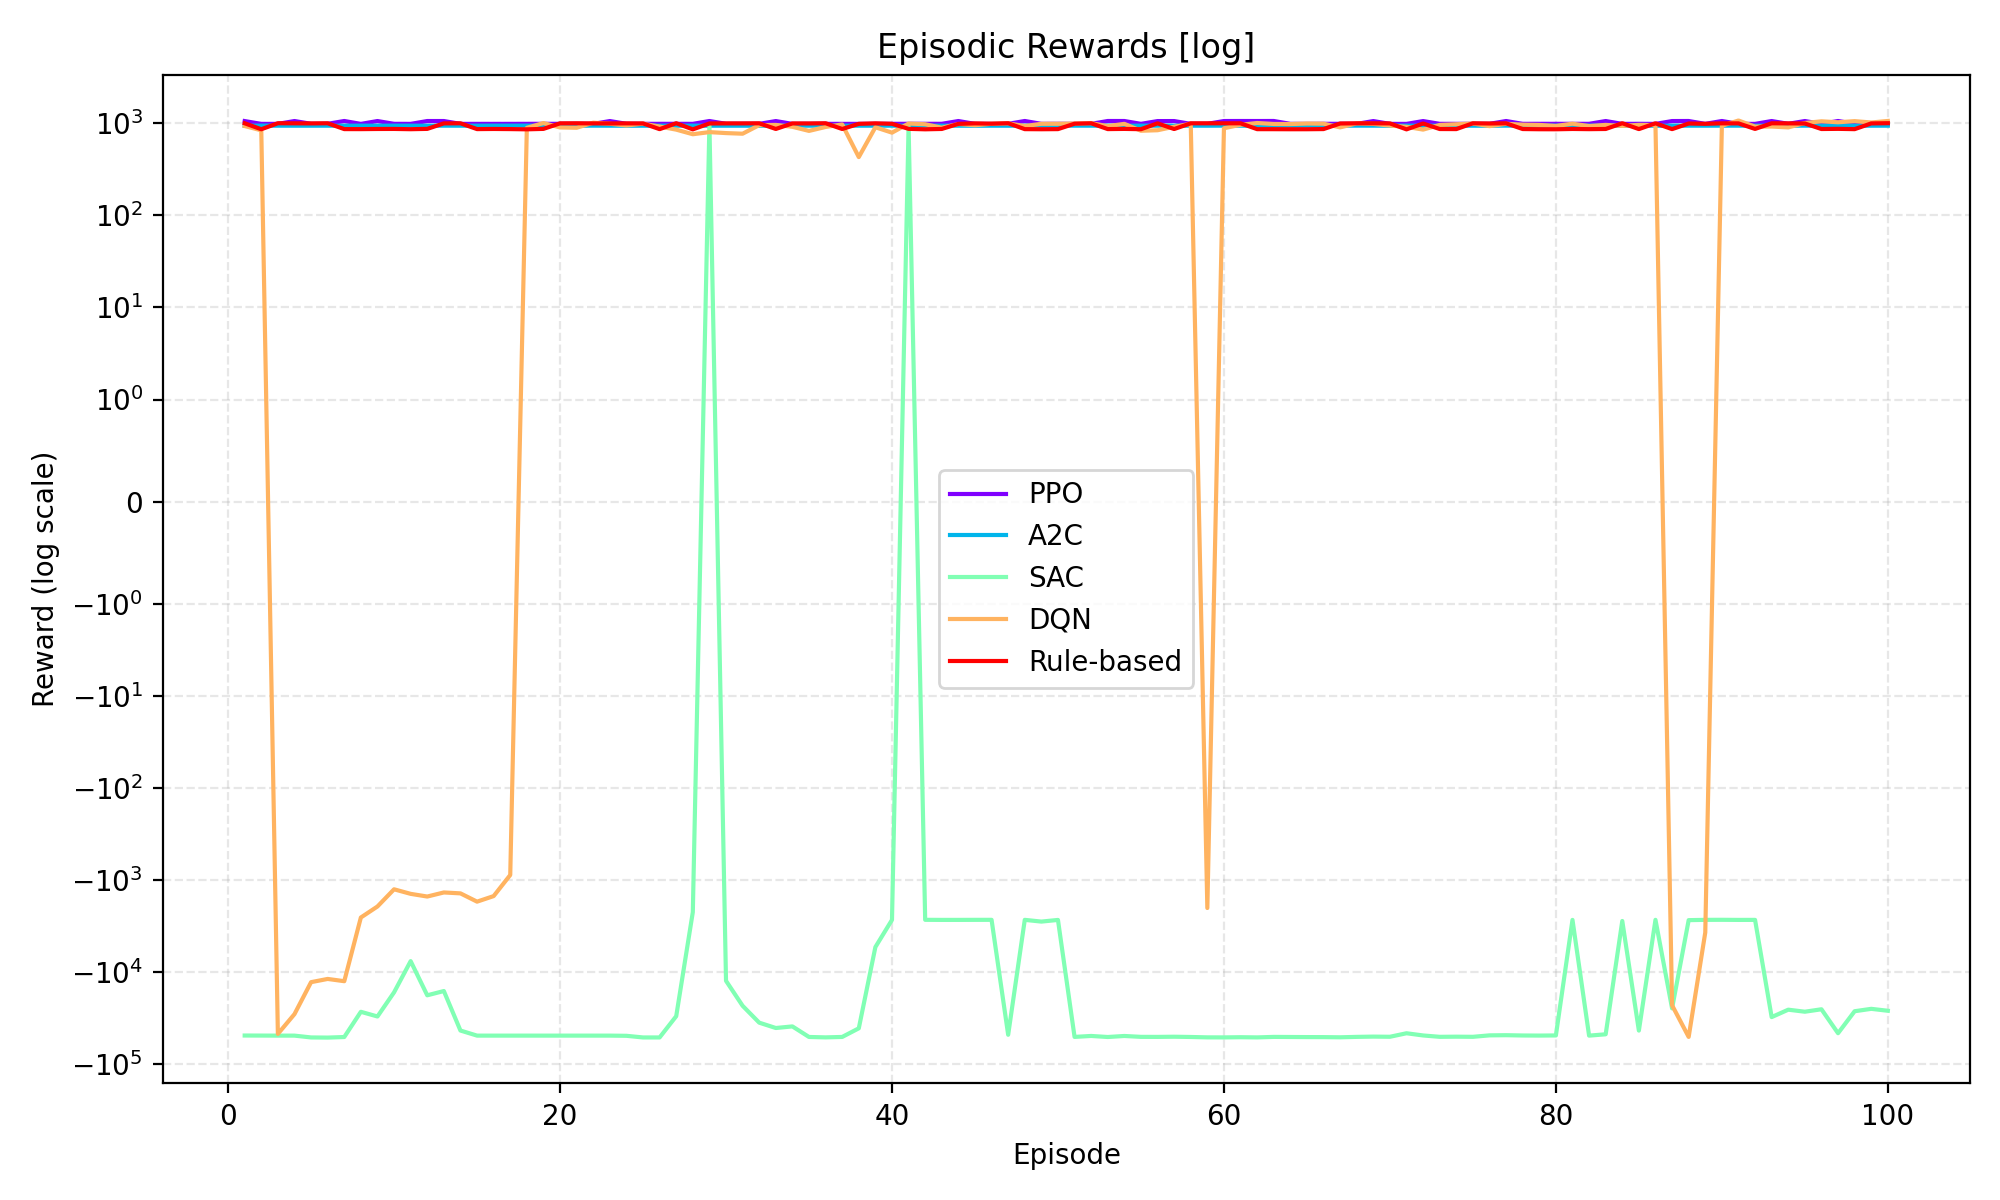
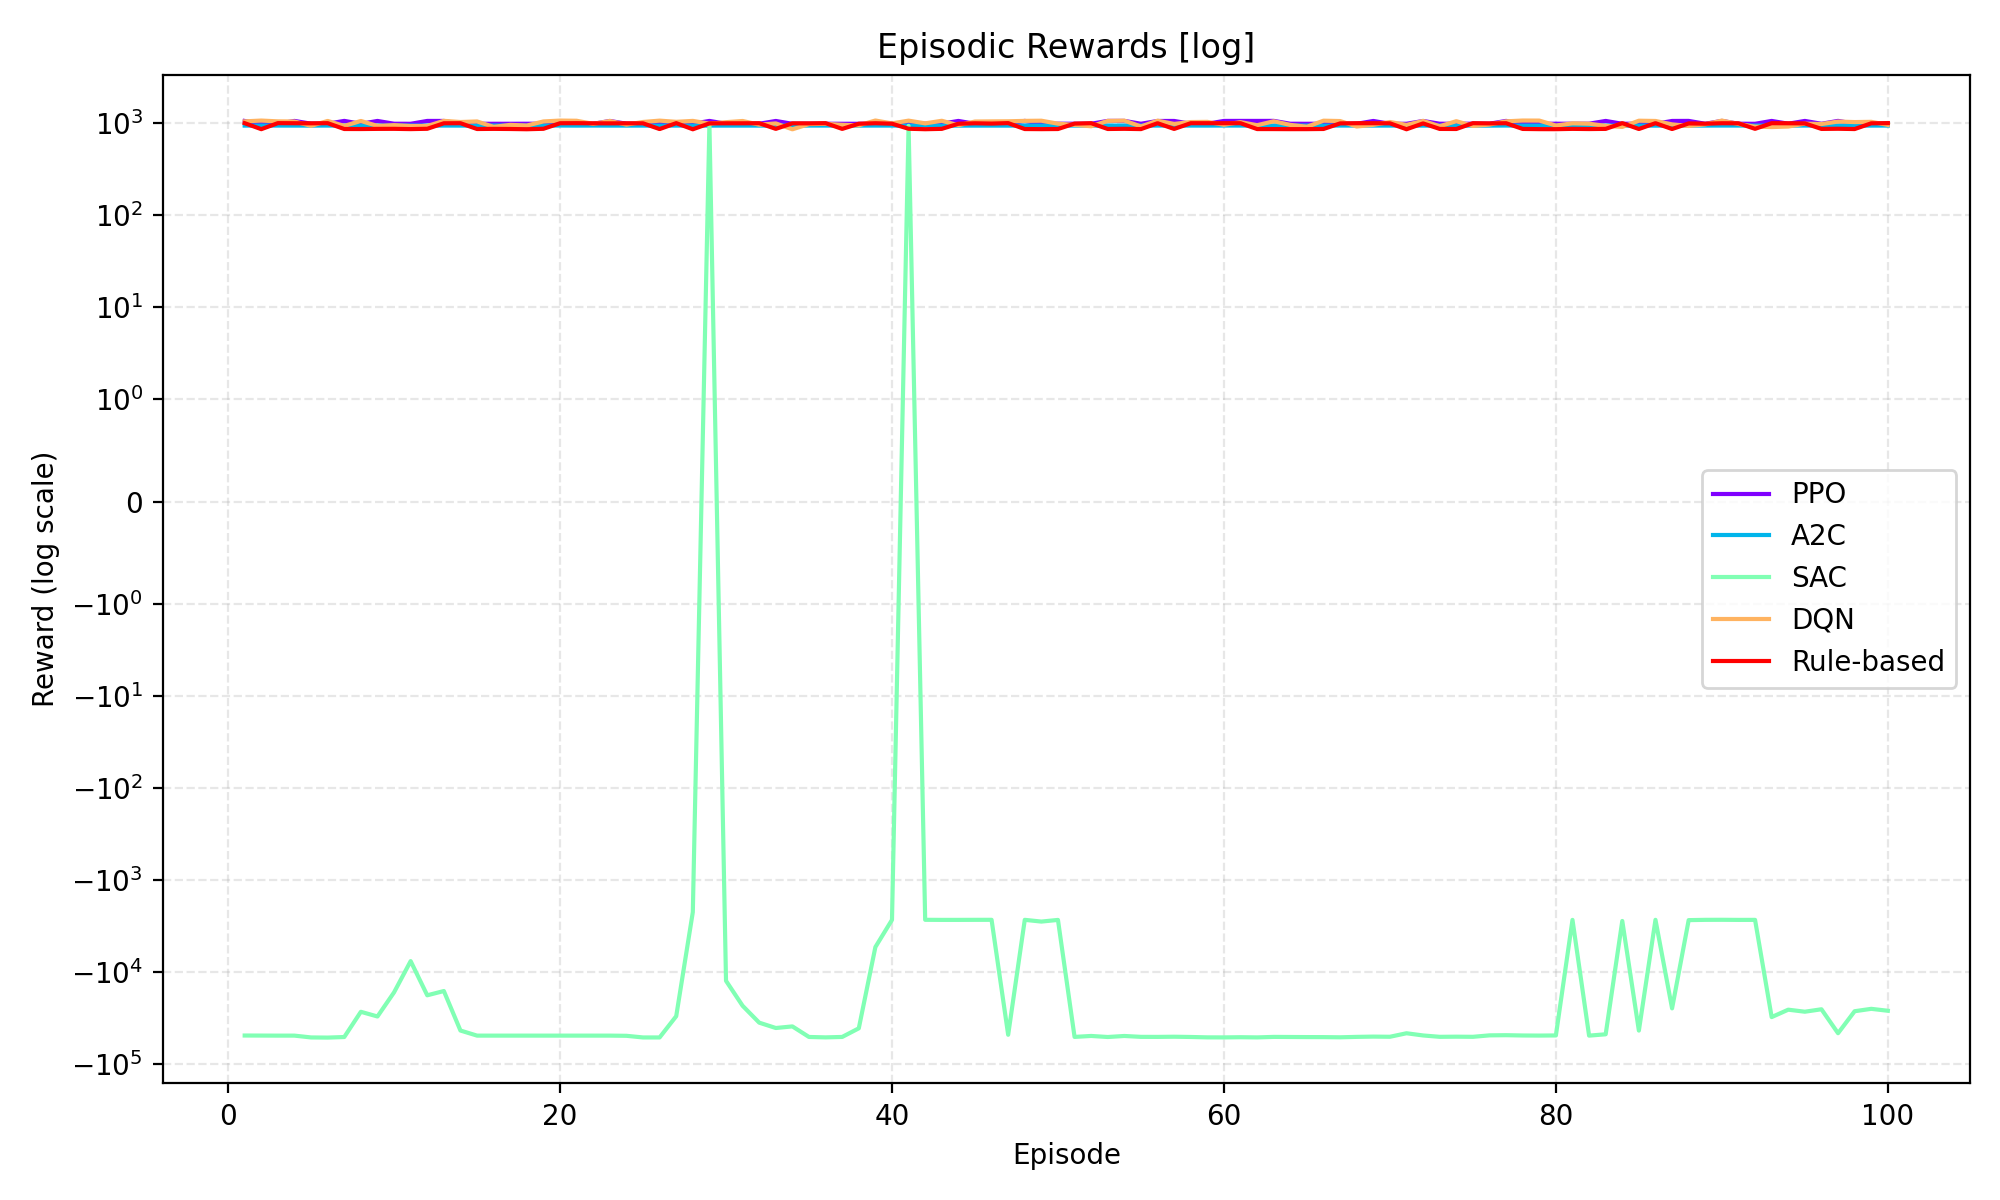
added dqn results and updated metrics_table_v1

diff --git a/plot_all.py b/plot_all.py
@@ -11,16 +11,8 @@ rewards_rulebased = np.load("models/rulebased_rewards.npy")
 rewards_ppo = np.load("models/ppo/ppo_act_100_rewards.npy")
 rewards_a2c = np.load("models/a2c/a2c_act100_total_rewards.npy")
 rewards_sac = np.load("models/sac/sac_act_100_rewards.npy")
-rewards_dqn = scores = [935.0,839.8675821958195,-46599.28104512051,-28401.67552375052,-12771.431145987735,-11781.923217418109,-12466.87690406844,
-                        -2534.5575649473676,-1923.8081616785134,-1251.7647329710755,-1402.9728665766509,-1500.288597696093,-1354.9777266953047,
-                        -1386.1129186518099,-1705.071564531073,-1483.8735556503304,-875.5743795644739,894.652987431722,1007.5,902.5730616101582,
-                        895.2700183834102,1016.25,989.7332857515129,947.75,991.75,922.9129623896808,854.5566583479724,761.5145158218805,803.1305180583746,
-                        783.6797951608809,771.75,956.3997982320761,961.25,917.3105234939761,827.75,913.5,973.2764455117385,430.1037305781626,
-                        906.75,792.3028778332714,995.1443068169056,978.166913583245,897.0081595168251,983.75,953.0,989.2266002676779,999.0,935.25,
-                        988.5,989.25,995.25,1004.5,932.75,987.5,830.75,841.75,918.25,990.0,-1999.203003001121,884.5,964.5,1009.0,984.5,982.25,995.25,
-                        991.75,904.25,998.75,986.0,946.5,916.25,855.25,961.0,977.5,995.5,932.25,989.25,967.5,961.0,937.5,991.5,934.5,962.0,938.142626501628,
-                        962.75,957.25,-22750.345161314995,-50231.54299036813,-3690.6514743138764,941.25,1073.25,921.75,923.0,903.5,1009.0,1052.25,1027.5751020860762,
-                        1056.5,1021.5687557059748,1061.5]
+rewards_dqn = [1048.309117729268, 1069.5026737583723, 1048.4517957213461, 1045.1537590423807, 936.5585172348857, 1059.5782669659077, 935.7592384355157, 1058.9103801163906, 935.1753712722582, 953.8739630154133, 932.8458162373181, 933.3430721550471, 1061.793842397295, 1031.0737131902658, 1046.0178865213454, 912.9244045774146, 960.5409293446482, 944.5169216905992, 1045.864845331248, 1069.1155458495336, 1064.3340194190837, 984.7504184760563, 1059.0033365161835, 965.9267200111822, 1032.4666642148488, 1067.5829893581765, 1036.1908623539887, 1060.5260430810517, 989.967596410525, 1027.1484758403258, 1058.2826729333992, 964.7959256028282, 995.8982007826423, 859.4792688166358, 978.7717133366386, 985.1540525668643, 961.7732568574702, 948.910449049906, 1070.5902417760917, 996.1722966933021, 1067.310318543259, 997.2504223353833, 1063.4375834392026, 951.4783538162411, 1043.801400660975, 1047.8041027954882, 1050.0716706400779, 1061.0095775788368, 1065.5119396175705, 989.5010221069944, 959.7574154870041, 927.3205011227878, 1060.4078402765854, 1067.1121461065816, 922.9327010647459, 1065.8477143554014, 983.4521041631646, 1030.6229856361451, 1035.3422715636052, 962.9829747429824, 1027.6121784441928, 952.5443330394389, 1050.7757515922654, 959.7503709844952, 915.9488276544404, 1066.0145190713945, 1056.6618038826477, 921.85843460079, 961.4564152118644, 1031.7146663650765, 959.186712278045, 1059.9325759213684, 928.6741942500038, 1052.3583227241413, 934.870040082888, 966.9816806336692, 1049.4340249374661, 1070.1417709288212, 1068.7304387326324, 944.5920860646308, 997.9253792596041, 988.6810989944843, 935.216399937951, 912.7127437136264, 1065.4309612583234, 1058.4786736271524, 972.114503551018, 933.8915369617293, 972.6770515153546, 1068.9428306430211, 981.7287299330659, 917.8189735540859, 908.9349553264358, 920.7866156161895, 990.1941942713624, 980.7409544968231, 1043.3269687561724, 1029.776316100874, 1036.2231716647805, 959.3463735813067]
+
 
 clrmap = plt.get_cmap('rainbow')
 
@@ -142,7 +134,7 @@ def plot_comparison(alg_names, reward_lists, save_path="plots/comparison_metrics
     
     ax3 = fig.add_subplot(gs[1])
     ax3.bar(x, variance, width, color=colors)
-    ax3.set_title('Learning Instability (Variance)', pad=10)
+    ax3.set_title('Performance Stability (Variance)', pad=10)
     ax3.set_ylabel('Variance (log scale)')
     ax3.set_xticks(x)
     ax3.set_xticklabels(alg_names, rotation=45, ha='right')
